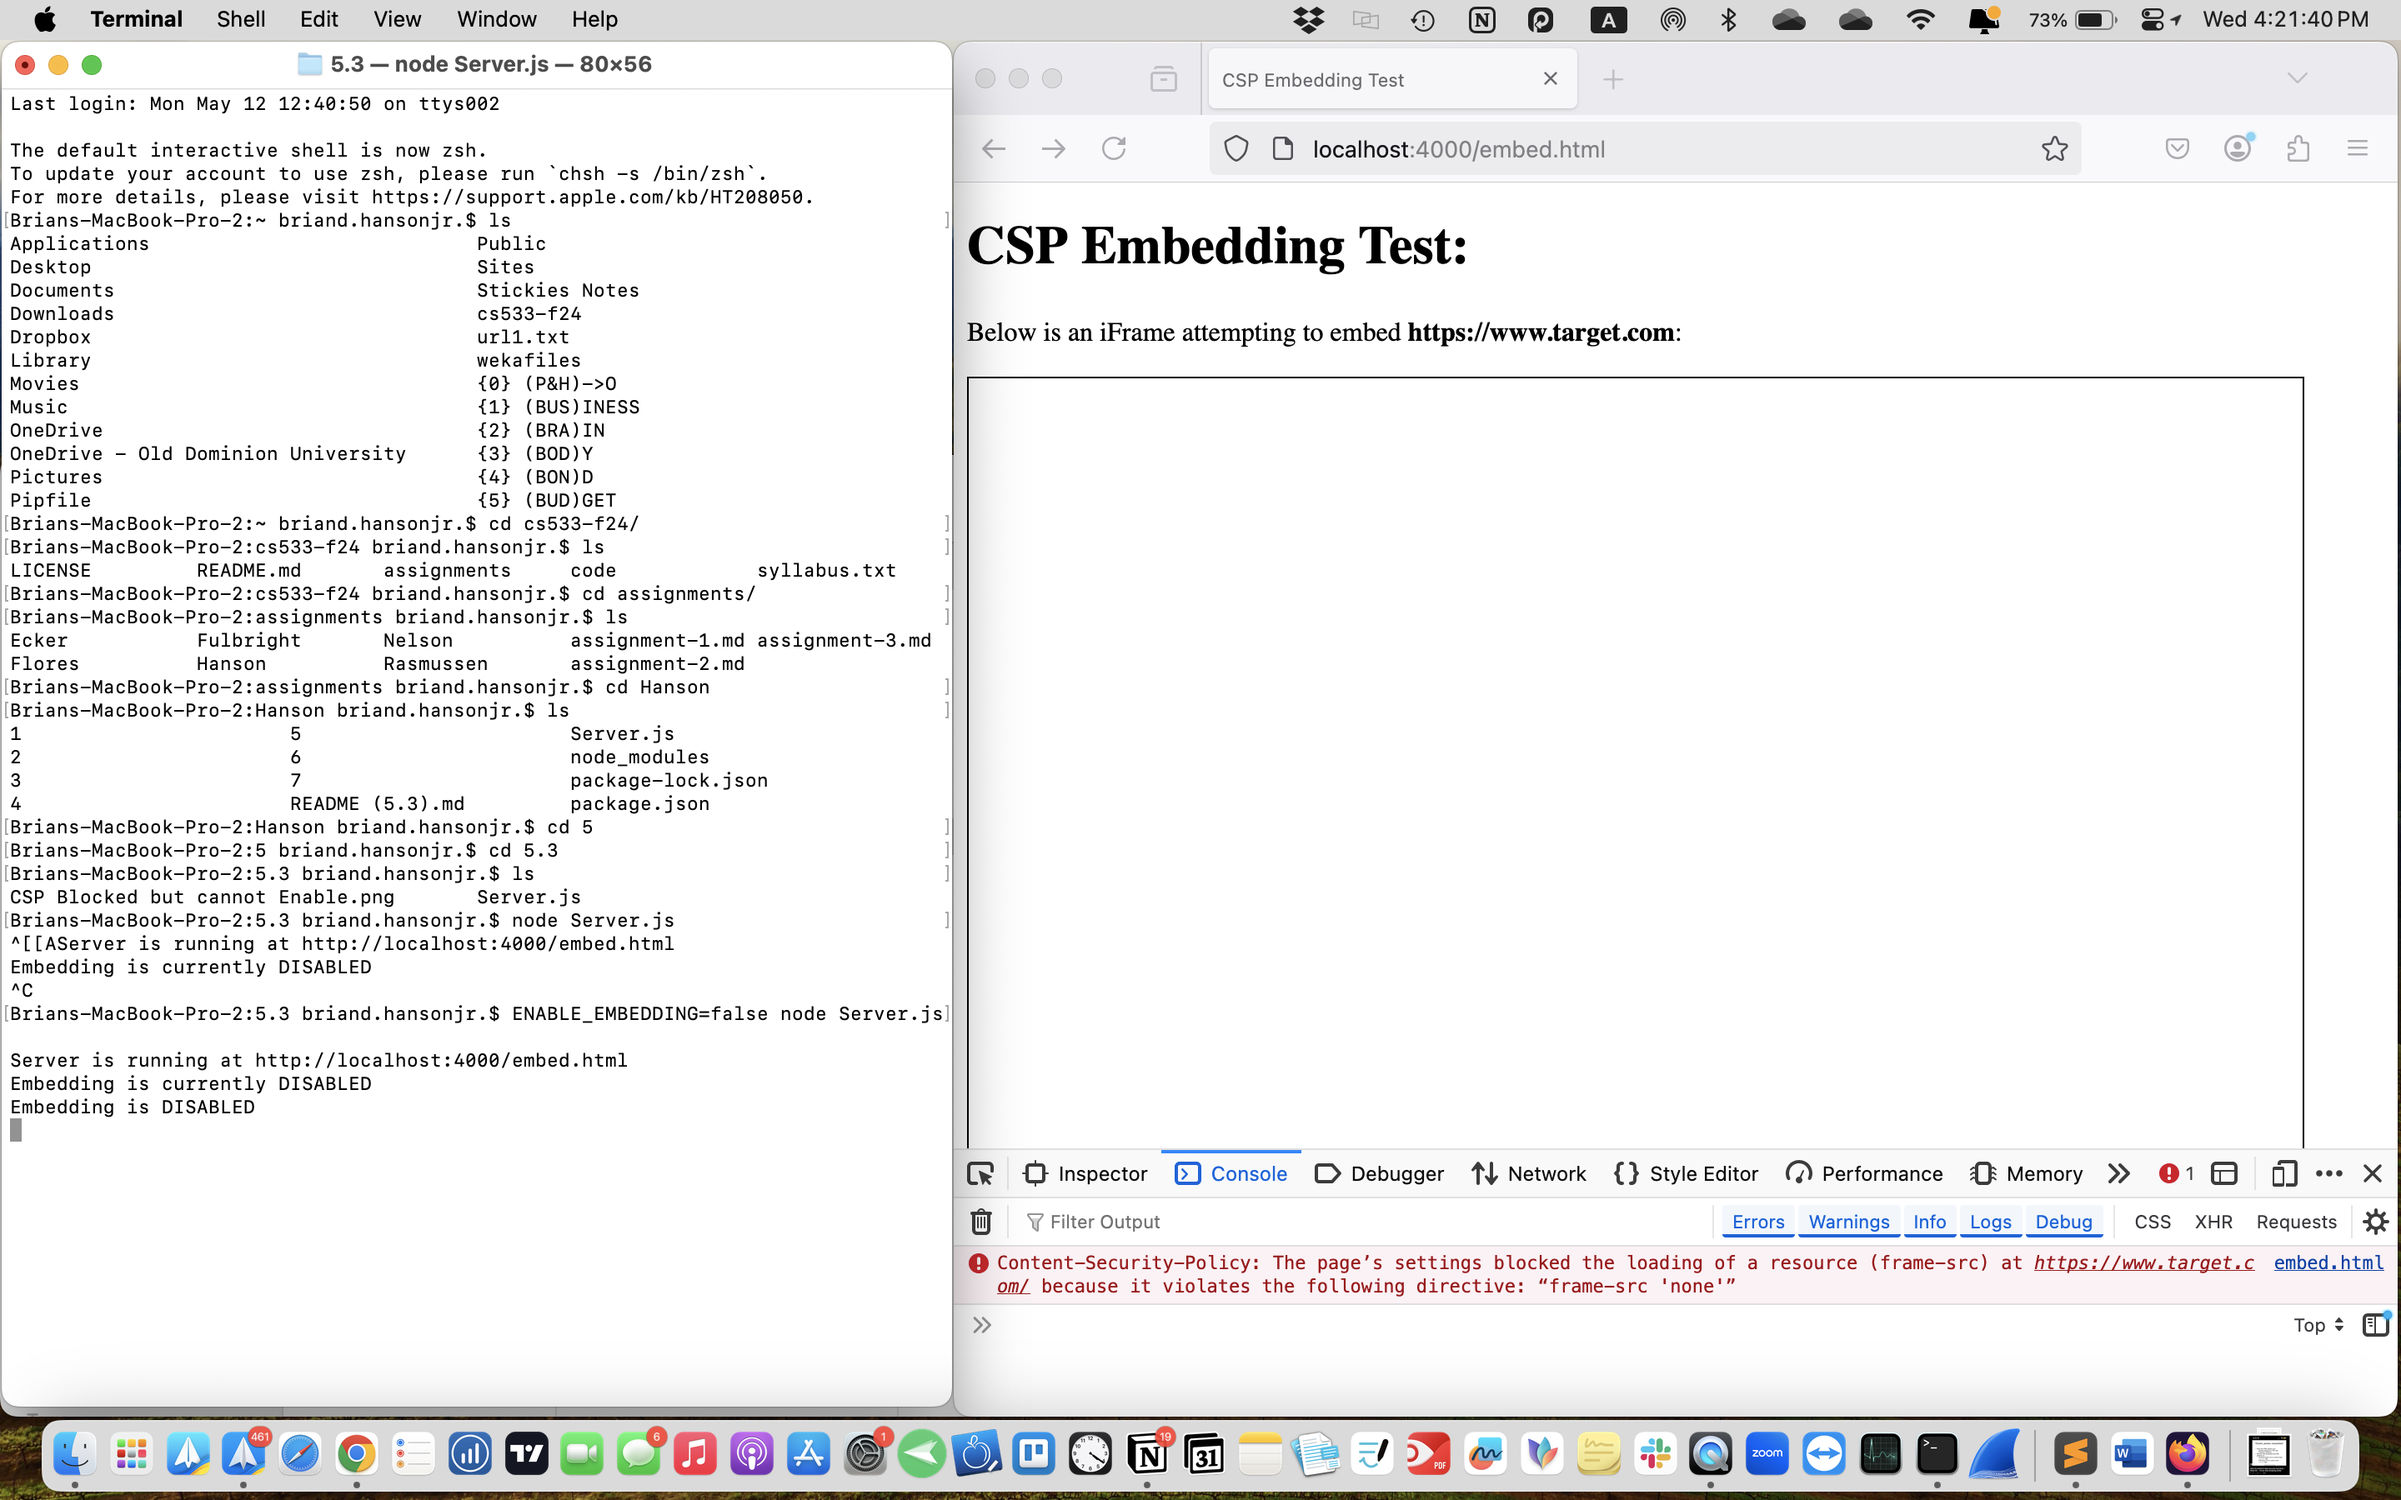
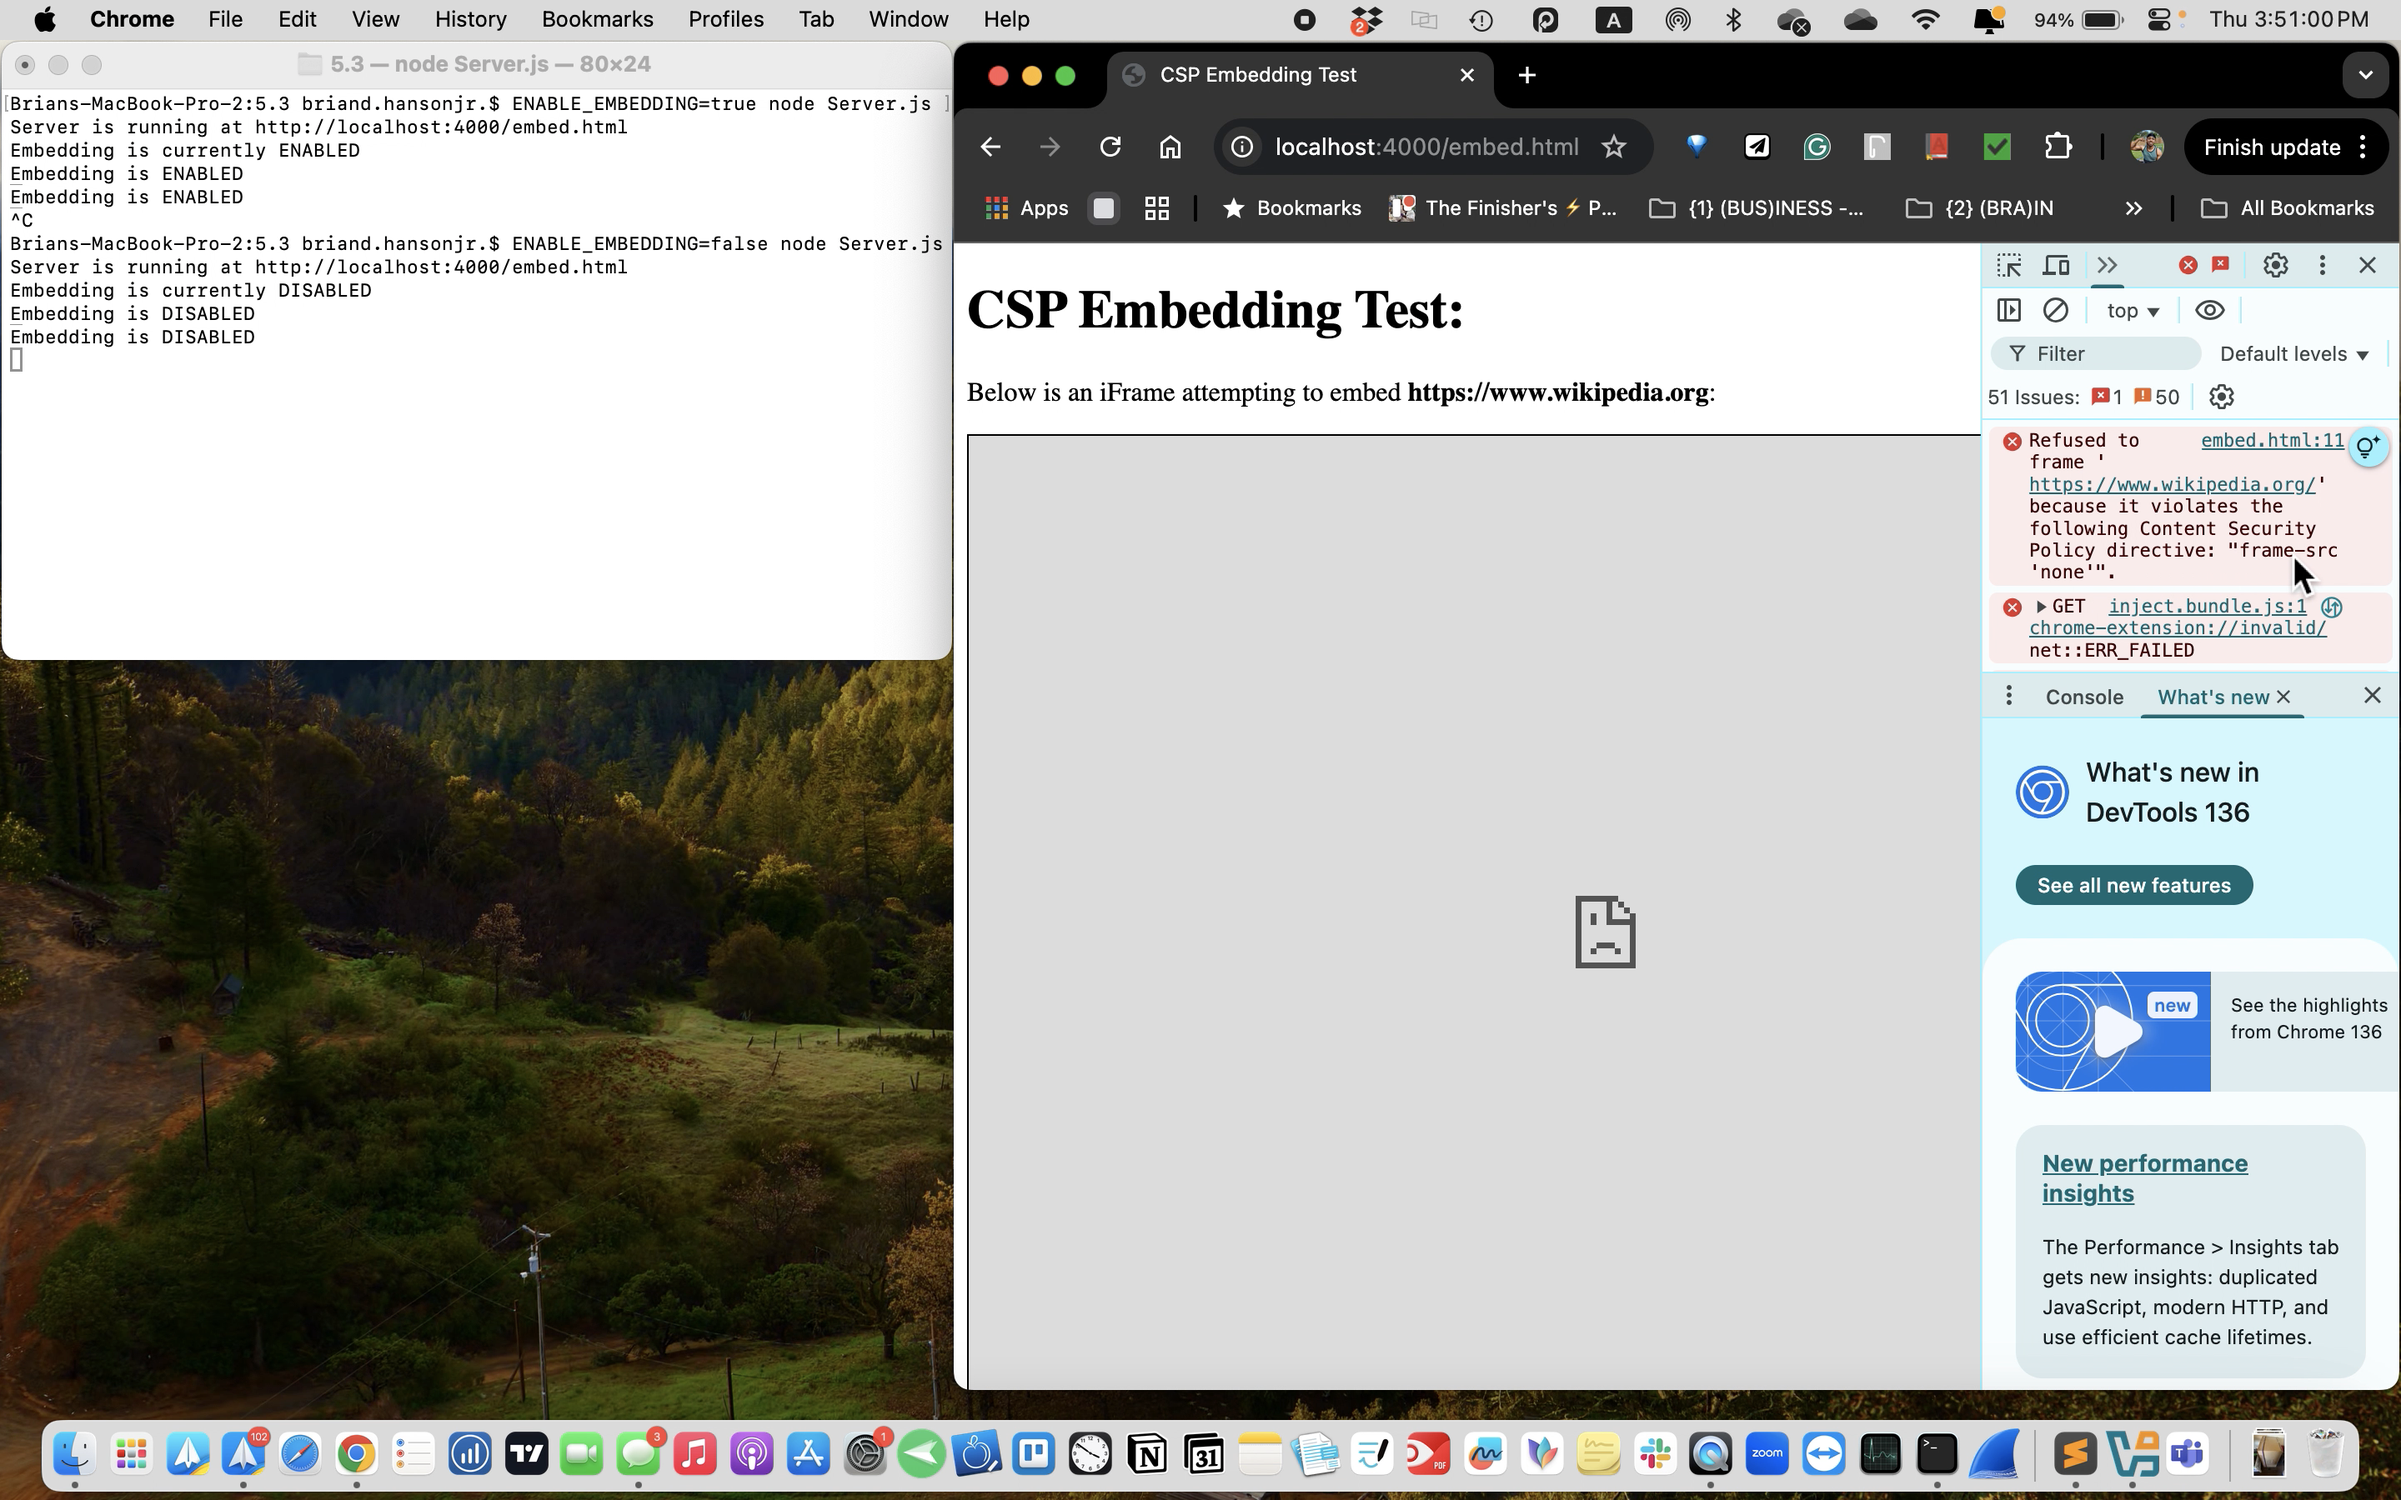
Add files via upload

diff --git a/assignments/Hanson/5/5.3/Server.js b/assignments/Hanson/5/5.3/Server.js
@@ -9,7 +9,7 @@ const ENABLE_EMBEDDING = process.env.ENABLE_EMBEDDING === 'true';
 app.use((req, res, next) => {
     if (ENABLE_EMBEDDING) {
         // Allow embedding from the specified site
-        res.setHeader('Content-Security-Policy', "frame-src 'self' https://www.target.com", "frame-ancestors 'self' https://www.target.com");
+        res.setHeader('Content-Security-Policy', "frame-src 'self' https://www.wikipedia.org", "frame-ancestors 'self' https://www.wikipedia.org");
         console.log('Embedding is ENABLED');
     } else {
         // Block all embedding
@@ -30,8 +30,8 @@ app.get('/embed.html', (req, res) => {
         </head>
         <body>
             <h1>CSP Embedding Test:</h1>
-            <p>Below is an iFrame attempting to embed <strong>https://www.target.com</strong>:</p>
-            <iframe src="https://www.target.com" width="800" height="600" style="border:1px solid black;"></iframe>
+            <p>Below is an iFrame attempting to embed <strong>https://www.wikipedia.org</strong>:</p>
+            <iframe src="https://www.wikipedia.org" width="800" height="600" style="border:1px solid black;"></iframe>
         </body>
         </html>
     `);

diff --git a/assignments/Hanson/5/5.3/README (5.3).md b/assignments/Hanson/5/5.3/README (5.3).md
@@ -1,7 +1,7 @@
 
 # 5.3: CSP Embedding Demonstration
 
-This directory demonstrates the use of Content Security Policy (CSP) headers to control the embedding of external content using iframes. The example tests embedding [Target](https://www.target.com) and shows how to block or allow its content based on CSP configuration. The CSP settings can be toggled dynamically using an environment variable.
+This directory demonstrates the use of Content Security Policy (CSP) headers to control the embedding of external content using iframes. The example tests embedding [Wikipedia](https://www.wikipedia.org) and shows how to block or allow its content based on CSP configuration. The CSP settings can be toggled dynamically using an environment variable.
 
 ## Files
 
@@ -50,13 +50,13 @@ The server reads the `ENABLE_EMBEDDING` environment variable to determine the CS
   In `server.js`, when `ENABLE_EMBEDDING` is set to `'true'`, the CSP directive is set to:
 
   ```http
-  Content-Security-Policy: "frame-ancestors 'self' https://*.target.com"
+  Content-Security-Policy: frame-src 'self' https://wikipedia.org
   ```
 
   **Observed Behavior**:
 
-  - The iframe does not successfully load the target content.
-  - CSP violation errors appear in the browser console, specifically violating the 'frame-ancestors' directive. 
+  - The iframe does not successfully loads the target content.
+  - CSP violation errors appear in the browser console specifically violation of the 'frame-ancestors' directive. 
 
 - **Embedding Disabled (`ENABLE_EMBEDDING=false`)**:
 
@@ -74,7 +74,7 @@ The server reads the `ENABLE_EMBEDDING` environment variable to determine the CS
   **Example Error in Browser Console**:
 
   ```
-  Refused to frame 'https://www.target.com/' because it violates the following Content Security Policy directive: "frame-src 'none'".
+  Refused to frame 'https://www.wikipedia.org/' because it violates the following Content Security Policy directive: "frame-src 'none'".
   ```
 
 ---
